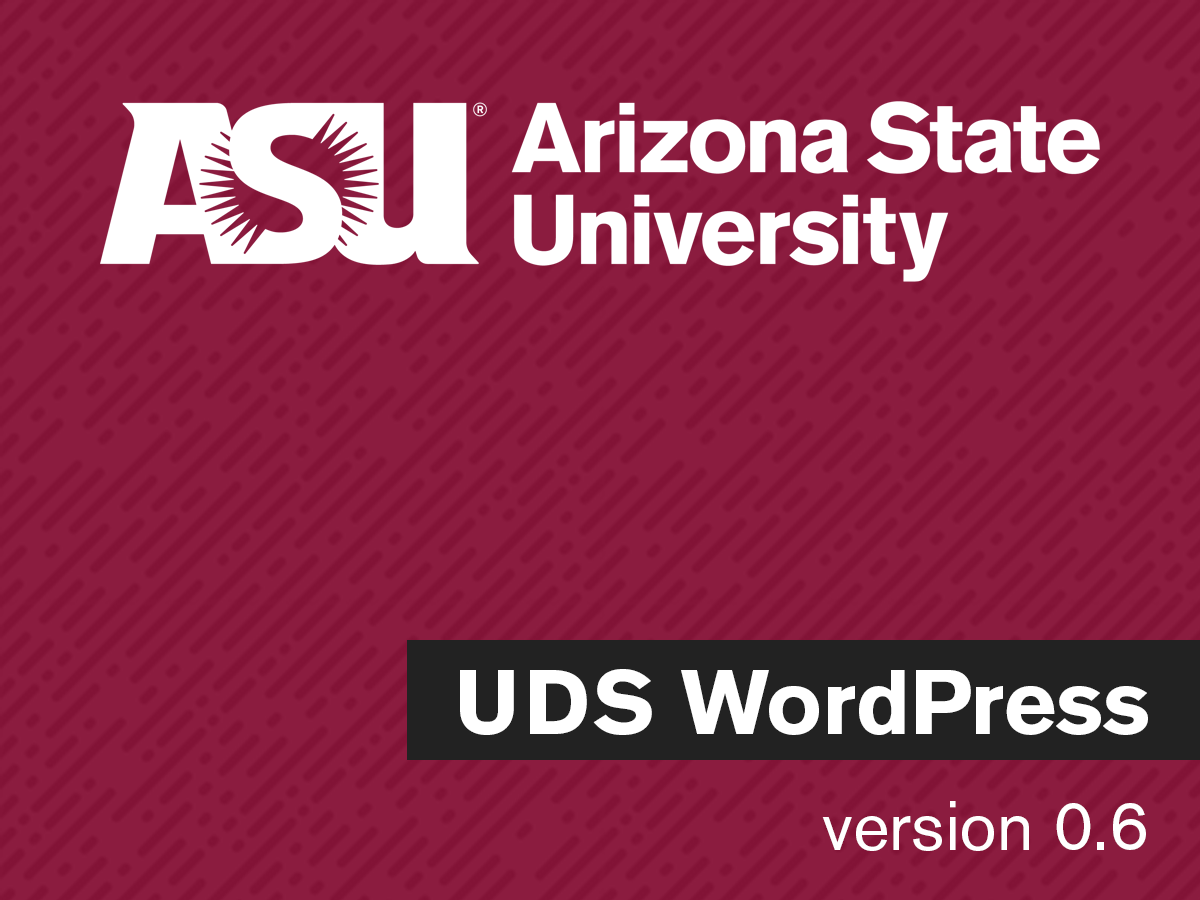
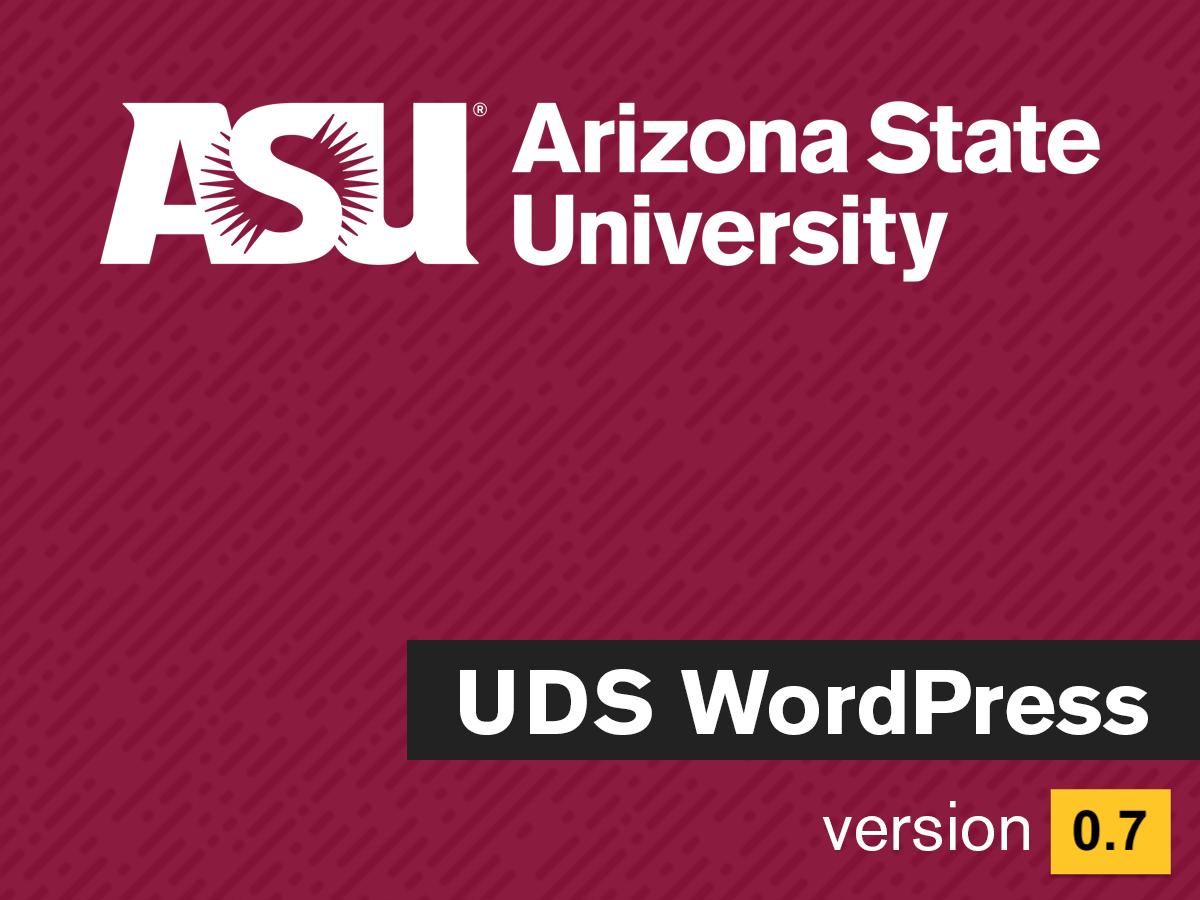
Version Bump 0.7
Update theme version, and accompanying screenshot, to 0.7

Changed region(s): [[0.8633, 0.8711, 0.9867, 0.9956]]

diff --git a/style.css b/style.css
@@ -4,7 +4,7 @@ Theme URI: https://github.com/asu-ke-web-services/UDS-WordPress-Theme
 Author: Arizona State University Knowledge Enterprise
 Author URI: https://research.asu.edu
 Description: Combination of Automattic´s _s theme and Bootstrap 4, customized and enhanced for ASU Web Standards 2.0
-Version: 0.6.1
+Version: 0.7.0
 
 GitHub Theme URI: https://github.com/asu-ke-web-services/UDS-WordPress-Theme
 
